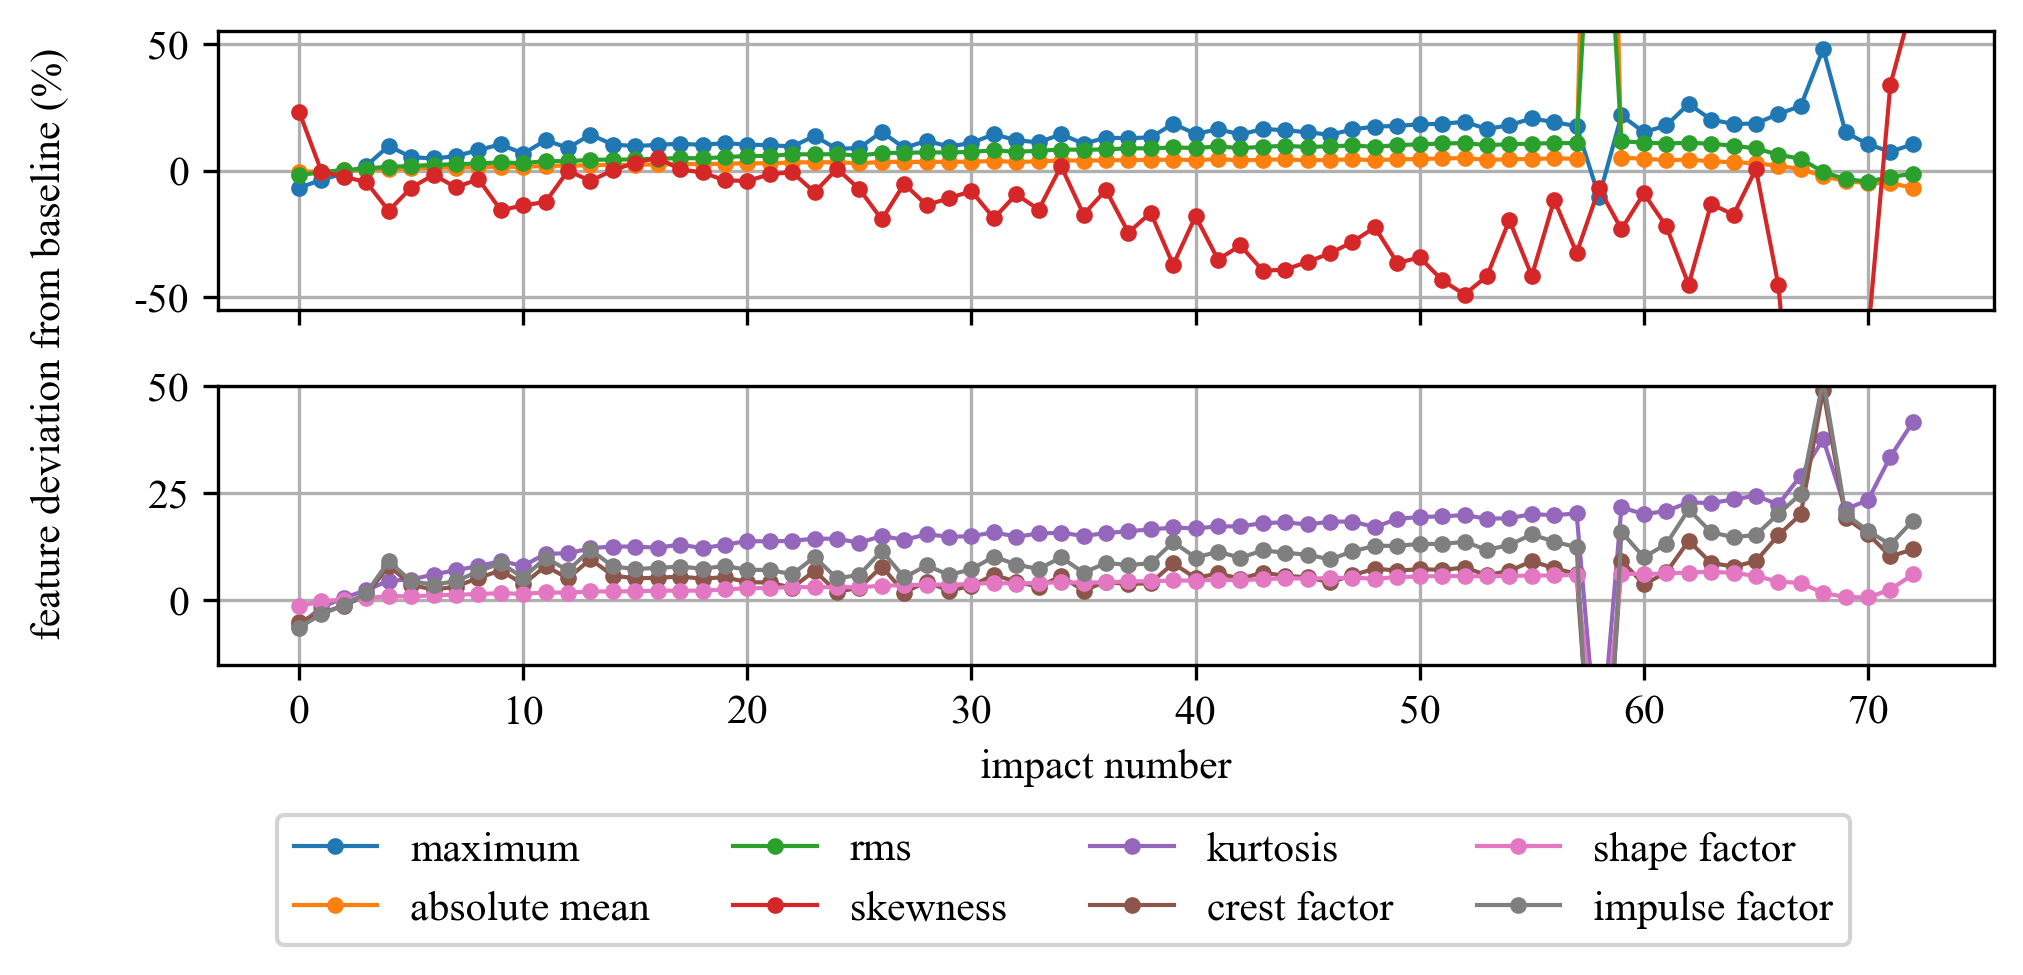
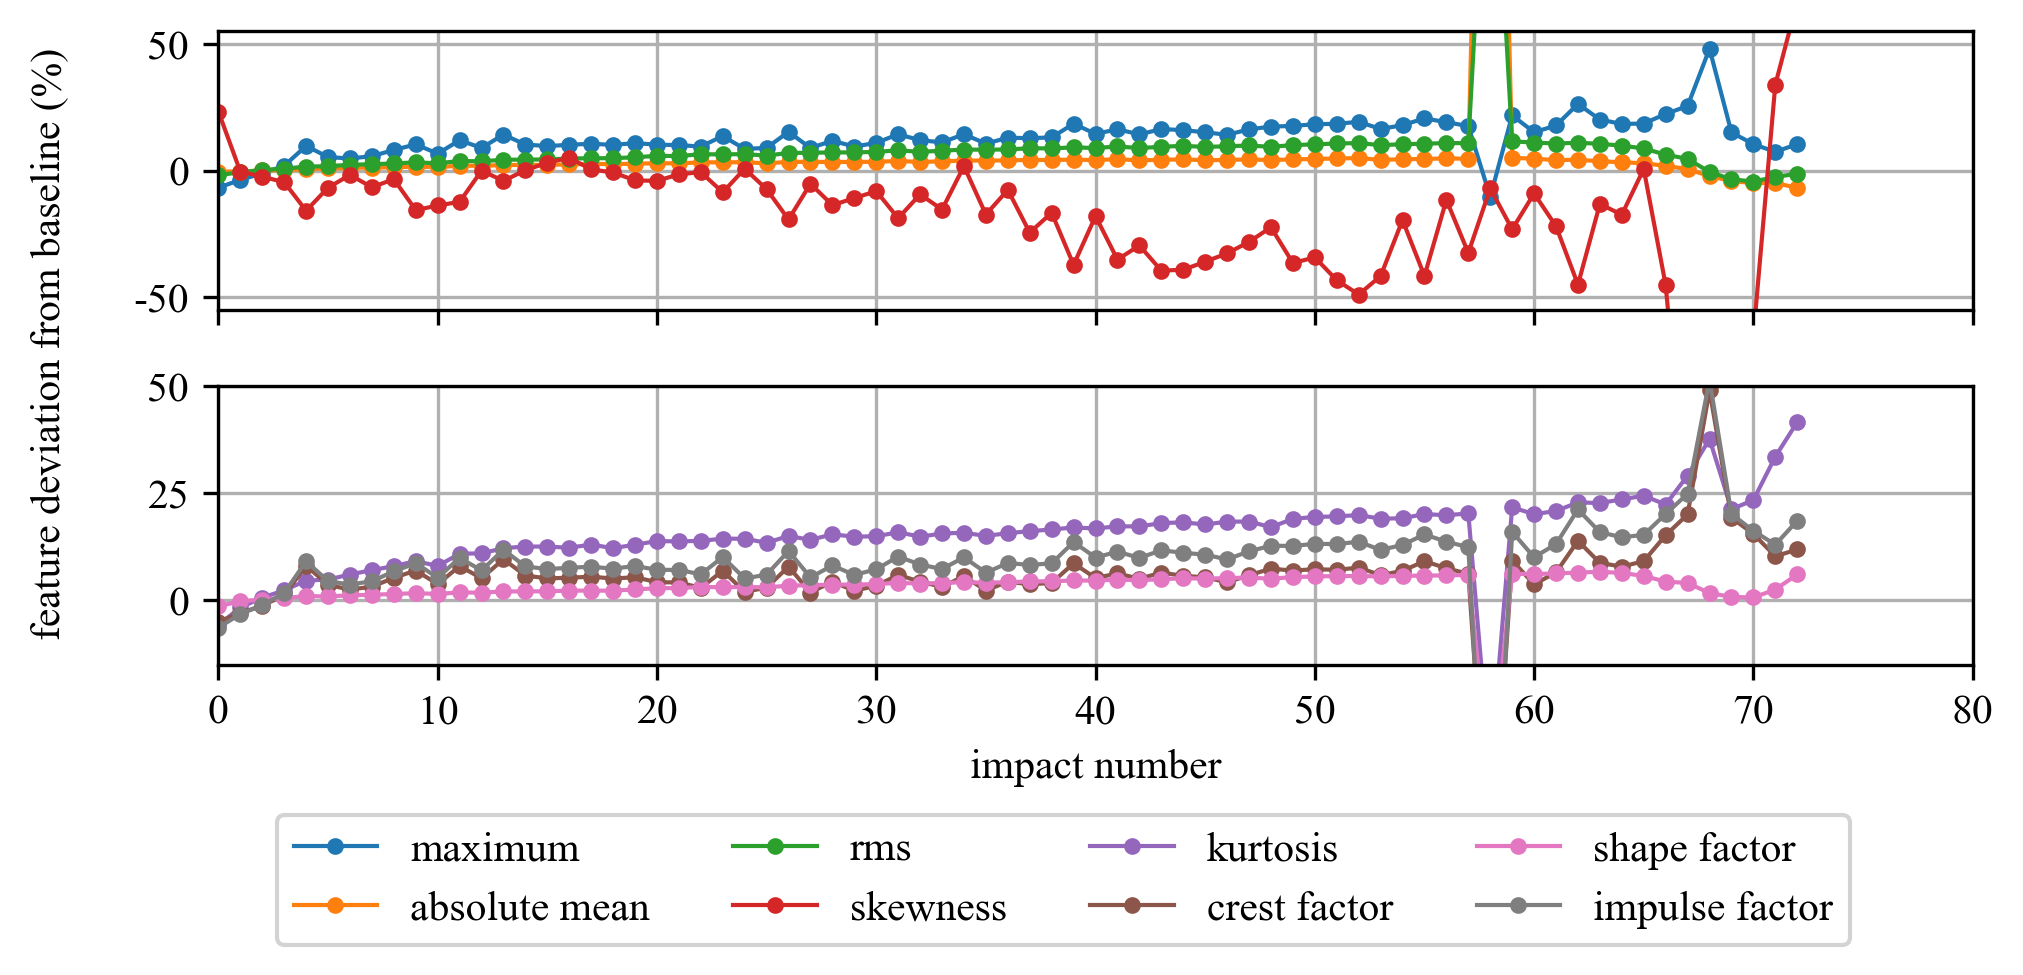
Plotting Updated

diff --git a/Analysis/IMAC_plotting.py b/Analysis/IMAC_plotting.py
@@ -150,7 +150,7 @@ for i in range(len(board_names)):
     handle = Line2D([0], [0], marker='.', color=color, linestyle='-', markersize=6, linewidth=0.5)
     legend_handles.append(handle)
     save_name = board_save_map.get(data_list[i], board_names[i])
-    legend_labels.append(save_name)
+    legend_labels.append(save_name.lower())
 
 plt.xlabel("impact percent")
 plt.ylabel("resistance percent")
@@ -162,94 +162,105 @@ plt.savefig(os.path.join(save_path, "selected_boards_resist.png"), dpi=300, bbox
 plt.show()
 
 # %% FEATURE EXTRACTION
-y_ranges = {
-    "Board 1": {"top": (-55, 55), "bottom": (-15, 15)},
-    "Board 2": {"top": (-15, 15), "bottom": (-15, 15)},
-    "Board 3": {"top": (-55, 55), "bottom": (-15, 50)}
-}
+# y_ranges = {
+#     "Board 1": {"top": (-55, 55), "bottom": (-15, 15)},
+#     "Board 2": {"top": (-15, 15), "bottom": (-15, 15)},
+#     "Board 3": {"top": (-55, 55), "bottom": (-15, 50)}
+# }
 
-for i, board in enumerate(data_list):
-    if i in only_boards:
-        board_folder = os.path.join(file_path, board)
-        lvm_files = sorted([f for f in os.listdir(board_folder) if f.endswith(".lvm")])
+# # manually set x-axis ranges (example values – adjust as needed)
+# x_ranges = {
+#     "Board 1": (0, 50),
+#     "Board 2": (0, 50),
+#     "Board 3": (0, 80)
+# }
 
-        impacts, features = [], [[] for _ in feature_names]
-        for j, filename in enumerate(lvm_files):
-            data = np.loadtxt(os.path.join(board_folder, filename), usecols=(2)).tolist()
-            data_zeroed = [val - data[0] for val in data]
-            current_max_index = np.argmax([abs(x) for x in data_zeroed])
-            current_max = abs(data_zeroed[current_max_index])
-            if current_max_index < 1000:
-                data_small = data_zeroed[:(current_max_index + 11000)]
-            else:
-                data_small = data_zeroed[(current_max_index - 1000):(current_max_index + 11000)]
+# for i, board in enumerate(data_list):
+#     if i in only_boards:
+#         board_folder = os.path.join(file_path, board)
+#         lvm_files = sorted([f for f in os.listdir(board_folder) if f.endswith(".lvm")])
 
-            abs_mean = np.mean(np.abs(data_small))
-            rms_val = np.sqrt(np.mean(np.square(data_small)))
+#         impacts, features = [], [[] for _ in feature_names]
+#         for j, filename in enumerate(lvm_files):
+#             data = np.loadtxt(os.path.join(board_folder, filename), usecols=(2)).tolist()
+#             data_zeroed = [val - data[0] for val in data]
+#             current_max_index = np.argmax([abs(x) for x in data_zeroed])
+#             current_max = abs(data_zeroed[current_max_index])
+#             if current_max_index < 1000:
+#                 data_small = data_zeroed[:(current_max_index + 11000)]
+#             else:
+#                 data_small = data_zeroed[(current_max_index - 1000):(current_max_index + 11000)]
 
-            features[0].append(current_max)
-            features[1].append(abs_mean)
-            features[2].append(rms_val)
-            features[3].append(skew(data_small))
-            features[4].append(kurtosis(data_small))
-            features[5].append(current_max / rms_val if rms_val != 0 else 0)
-            features[6].append(rms_val / abs_mean if abs_mean != 0 else 0)
-            features[7].append(current_max / abs_mean if abs_mean != 0 else 0)
-            impacts.append(j)
+#             abs_mean = np.mean(np.abs(data_small))
+#             rms_val = np.sqrt(np.mean(np.square(data_small)))
 
-        # --- Convert to % deviation from baseline (first 5 points) ---
-        features_percent = []
-        for f in features:
-            f = np.array(f)
-            baseline = np.mean(f[:5]) if np.mean(f[:5]) != 0 else 1.0
-            f_percent = 100 * (f - baseline) / baseline
-            features_percent.append(f_percent)
+#             features[0].append(current_max)
+#             features[1].append(abs_mean)
+#             features[2].append(rms_val)
+#             features[3].append(skew(data_small))
+#             features[4].append(kurtosis(data_small))
+#             features[5].append(current_max / rms_val if rms_val != 0 else 0)
+#             features[6].append(rms_val / abs_mean if abs_mean != 0 else 0)
+#             features[7].append(current_max / abs_mean if abs_mean != 0 else 0)
+#             impacts.append(j)
 
-        # --- Plot ---
-        fig, axs = plt.subplots(2, 1, figsize=(6.5, 3), sharex=True)
-        colors = itertools.cycle(cm.tab10.colors)
-        feature_colors = [next(colors) for _ in feature_names]
+#         # --- Convert to % deviation from baseline (first 5 points) ---
+#         features_percent = []
+#         for f in features:
+#             f = np.array(f)
+#             baseline = np.mean(f[:5]) if np.mean(f[:5]) != 0 else 1.0
+#             f_percent = 100 * (f - baseline) / baseline
+#             features_percent.append(f_percent)
 
-        # First 4 features
-        for idx in range(4):
-            axs[0].plot(impacts, features_percent[idx], marker='.', linestyle='-', linewidth=1,
-                        label=feature_names[idx], color=feature_colors[idx])
-        axs[0].grid(True)
+#         # --- Plot ---
+#         fig, axs = plt.subplots(2, 1, figsize=(6.5, 3), sharex=True)
+#         colors = itertools.cycle(cm.tab10.colors)
+#         feature_colors = [next(colors) for _ in feature_names]
 
-        # Last 4 features
-        for idx in range(4, 8):
-            axs[1].plot(impacts, features_percent[idx], marker='.', linestyle='-', linewidth=1,
-                        label=feature_names[idx], color=feature_colors[idx])
-        axs[1].set_xlabel("impact number")
-        axs[1].grid(True)
+#         # First 4 features
+#         for idx in range(4):
+#             axs[0].plot(impacts, features_percent[idx], marker='.', linestyle='-', linewidth=1,
+#                         label=feature_names[idx], color=feature_colors[idx])
+#         axs[0].grid(True)
 
-        # Apply custom ranges (per board, per subplot)
-        save_name = board_save_map[board]  # Board 1,2,3
-        board_ranges = y_ranges.get(save_name, {"top": (-50, 50), "bottom": (-50, 50)})
-        axs[0].set_ylim(*board_ranges["top"])
-        axs[1].set_ylim(*board_ranges["bottom"])
+#         # Last 4 features
+#         for idx in range(4, 8):
+#             axs[1].plot(impacts, features_percent[idx], marker='.', linestyle='-', linewidth=1,
+#                         label=feature_names[idx], color=feature_colors[idx])
+#         axs[1].set_xlabel("impact number")
+#         axs[1].grid(True)
 
-        fig.text(-0.03, 0.6, "feature deviation from baseline (%)", va="center", rotation="vertical")
+#         # Apply custom ranges (per board)
+#         save_name = board_save_map[board]
+#         board_ranges = y_ranges.get(save_name, {"top": (-50, 50), "bottom": (-50, 50)})
+#         axs[0].set_ylim(*board_ranges["top"])
+#         axs[1].set_ylim(*board_ranges["bottom"])
 
-        for ax in axs:
-            ax.yaxis.set_major_formatter(mticker.FormatStrFormatter("%.0f"))
+#         # Apply custom x-range
+#         if save_name in x_ranges:
+#             axs[0].set_xlim(*x_ranges[save_name])
+#             axs[1].set_xlim(*x_ranges[save_name])
 
-        # Legend
-        handles, labels = [], []
-        for ax in axs:
-            h, l = ax.get_legend_handles_labels()
-            handles.extend(h); labels.extend(l)
-        labels = [lbl.lower() for lbl in labels]
+#         fig.text(-0.03, 0.6, "feature deviation from baseline (%)", va="center", rotation="vertical")
 
-        fig.legend(handles, labels, loc="upper center", bbox_to_anchor=(0.5, 0.1), ncol=4,
-                   facecolor="white", edgecolor="lightgray", framealpha=1, frameon=True)
+#         for ax in axs:
+#             ax.yaxis.set_major_formatter(mticker.FormatStrFormatter("%.0f"))
 
-        plt.tight_layout(rect=[0, 0.05, 1, 1])
+#         # Legend
+#         handles, labels = [], []
+#         for ax in axs:
+#             h, l = ax.get_legend_handles_labels()
+#             handles.extend(h); labels.extend(l)
+#         labels = [lbl.lower() for lbl in labels]
 
-        plt.savefig(os.path.join(save_path, f"{save_name}_feature_subplots.png"),
-                    dpi=300, bbox_inches="tight")
-        plt.show()
-        
+#         fig.legend(handles, labels, loc="upper center", bbox_to_anchor=(0.5, 0.1), ncol=4,
+#                    facecolor="white", edgecolor="lightgray", framealpha=1, frameon=True)
+
+#         plt.tight_layout(rect=[0, 0.05, 1, 1])
+#         plt.savefig(os.path.join(save_path, f"{save_name}_feature_subplots.png"),
+#                     dpi=300, bbox_inches="tight")
+#         plt.show()
+
 # %% FEATURE PLOTTING (SPIE-style stacked traces with manual outlier removal)
 
 import numpy.ma as ma
@@ -267,6 +278,12 @@ outliers = {
     "board 3": { 
         "impulse factor": [58], "shape factor": [58], "crest factor": [58],
         "kurtosis": [58], "rms": [58], "absolute mean": [58], "maximum": [58]}
+}
+
+x_ranges = {
+    "board 1": (-2, 48),
+    "board 2": (-2, 49),
+    "board 3": (-2, 75)
 }
 
 for i, board in enumerate(data_list):
@@ -332,22 +349,43 @@ for i, board in enumerate(data_list):
             f_norm = (f_percent - f_min) / (f_max - f_min + 1e-9)
             norms.append(f_norm)
 
-        # --- Plot stacked traces ---
+        # # --- Plot stacked traces ---
+        # fig, ax = plt.subplots(figsize=(6.5, 3.5))
+        # j = len(norms) - 1
+        # for trace, fname in zip(norms[::-1], feature_names[::-1]):  # reverse for correct order
+        #     offset_trace = trace + j * y_offset
+        #     trace_masked = ma.masked_invalid(offset_trace)
+        #     ax.plot(np.arange(len(trace)), trace_masked,
+        #             label=fname.lower() if fname.lower() != "rms" else "RMS",
+        #             linewidth=0.5)
+        #     j -= 1
+            
+        # --- Plot stacked traces (as points) ---
         fig, ax = plt.subplots(figsize=(6.5, 3.5))
         j = len(norms) - 1
         for trace, fname in zip(norms[::-1], feature_names[::-1]):  # reverse for correct order
             offset_trace = trace + j * y_offset
             trace_masked = ma.masked_invalid(offset_trace)
-            ax.plot(np.arange(len(trace)), trace_masked,
-                    label=fname.lower(), linewidth=0.5)
+            ax.scatter(np.arange(len(trace)), trace_masked,
+                        label=fname.lower() if fname.lower() != "rms" else "RMS",
+                        s=5,  # marker size
+                        alpha=0.8)  # optional transparency
             j -= 1
 
-        # y-ticks as lowercase feature labels
+    
+        # y-ticks with lowercase except RMS
+        ytick_labels = [f.lower() if f.lower() != "rms" else "RMS" for f in feature_names]
         ax.set_yticks(np.arange(0, len(feature_names), 1))
-        ax.set_yticklabels([f.lower() for f in feature_names])
+        ax.set_yticklabels(ytick_labels)
+
         ax.set_xlabel("impact number")
         ax.set_ylabel("normalized feature traces")
         ax.grid(True, zorder=1)
+
+        # --- Apply custom x-range per board ---
+        save_name = board_save_map[board].lower()
+        if save_name in x_ranges:
+            ax.set_xlim(*x_ranges[save_name])
 
         plt.tight_layout()
         plt.savefig(os.path.join(save_path, f"{save_name}_features_stacked.png"),
@@ -373,3 +411,41 @@ plt.legend(loc="upper right", facecolor="white", edgecolor="lightgray", framealp
 plt.grid(True); plt.tight_layout()
 plt.savefig(os.path.join(save_path, "excitation_response.png"), dpi=300, bbox_inches="tight")
 plt.show()
+
+# %% STATISTICAL ANALYSIS (Pearson correlation between resistance and features)
+from scipy.stats import pearsonr
+import matplotlib.pyplot as plt
+import numpy as np
+
+results = []
+
+for i, board in enumerate(data_list):
+    if i in only_boards:
+        save_name = board_save_map[board]
+
+        # --- Resistance trendline (already smoothed/fitted) ---
+        res_fit_x = fit_line_x_values[i]  # 0–100 percent
+        res_fit_y = fit_line_y_values[i]
+
+        # match to actual impacts (% scale)
+        feature_impacts = np.linspace(0, 100, len(features[0]))
+        res_fit_interp = np.interp(feature_impacts, res_fit_x, res_fit_y)
+
+        # --- Compute correlations for each feature ---
+        board_corrs = {}
+        for f_idx, f_vals in enumerate(features_percent):
+            f_array = np.array(f_vals, dtype=float)
+            mask = ~np.isnan(f_array)
+            if np.sum(mask) > 2:
+                corr, pval = pearsonr(res_fit_interp[mask], f_array[mask])
+                board_corrs[feature_names[f_idx].lower()] = (corr, pval)
+            else:
+                board_corrs[feature_names[f_idx].lower()] = (np.nan, np.nan)
+
+        results.append((save_name, board_corrs))
+
+# --- Print results nicely ---
+for board_name, corrs in results:
+    print(f"\nBoard: {board_name}")
+    for fname, (corr, pval) in corrs.items():
+        print(f"  {fname:15s} : r = {corr: .3f}, p = {pval:.3e}")
